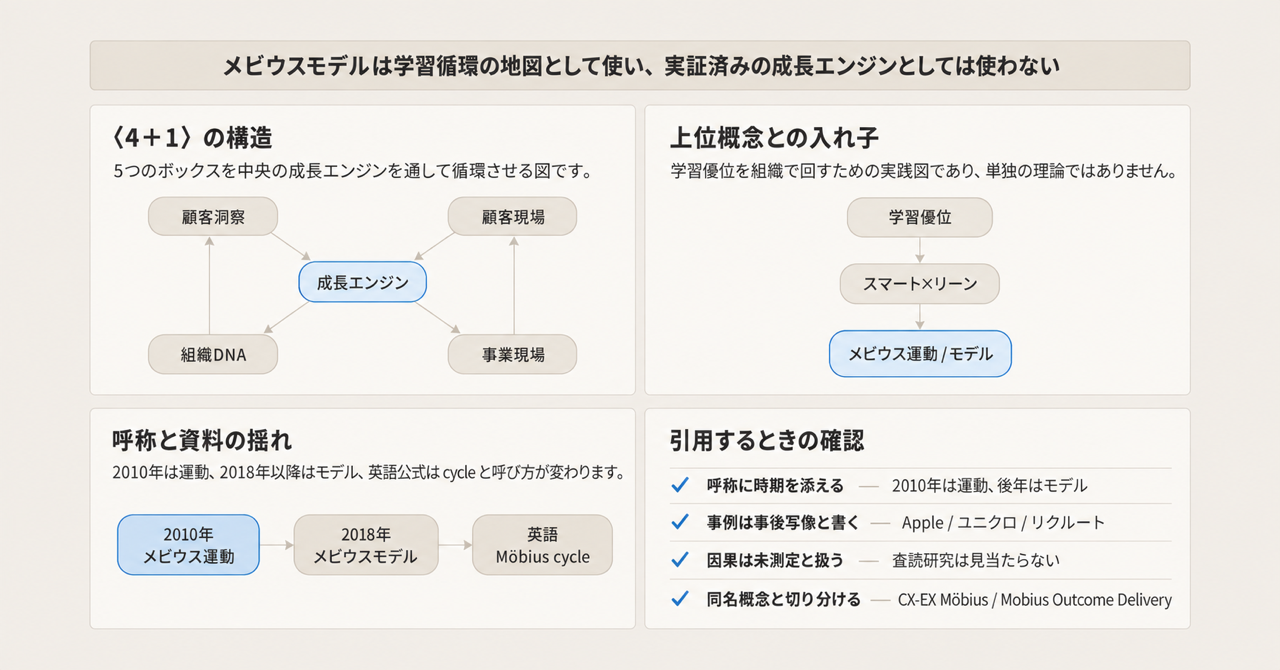
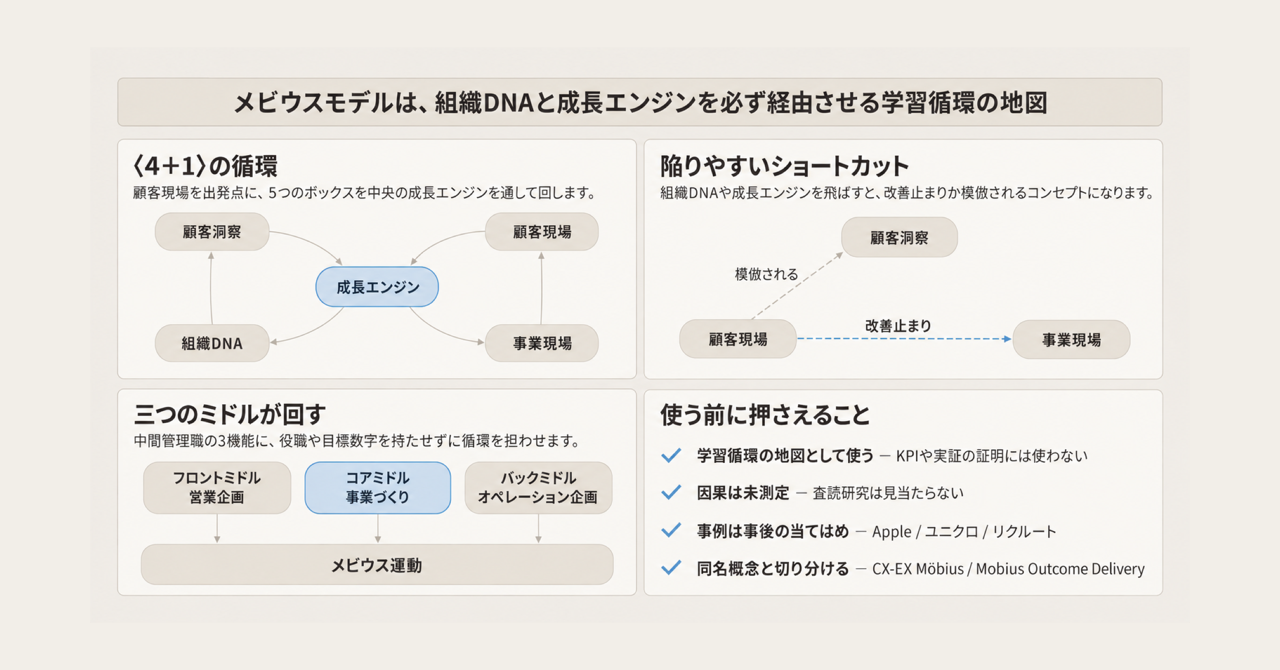
docs: update Zenn draft nawa-takashi-mobius-model_20260917

diff --git a/articles/nawa-takashi-mobius-model_20260917.md b/articles/nawa-takashi-mobius-model_20260917.md
@@ -1,14 +1,14 @@
 ---
-title: "名和高司のメビウスモデルとは何か、学習優位の循環図を一次資料で読み解く"
+title: "名和高司のメビウスモデルとは何か、学習優位で持続的にイノベーションを起こす組織の循環図"
 emoji: "♾"
 type: "tech"
 topics: ["マネジメント", "組織開発", "イノベーション", "経営戦略"]
 published: false
 ---
 
-「顧客の現場で学んだことを組織の DNA に照らし、新しい価値を定義して、また現場に返す」。名和高司氏が提唱するメビウスモデルは、この循環を 1 枚の図にした組織学習のフレームワークです。この記事では、書籍と本人の講演資料をもとに、図の構成要素、循環の経路、上位概念との関係を整理します。そのうえで、呼称の揺れ、事例の扱い、同名の別概念との切り分けなど、引用や助言で使うときの注意点をまとめます。
+「顧客の現場で学んだことを組織の DNA に照らし、新しい価値を定義して、また現場に返す」。名和高司氏が提唱するメビウスモデルは、この循環を 1 枚の図にした組織学習のフレームワークです。この記事では、書籍と本人の講演資料をもとに、図の構成要素、循環の経路、循環を組織に埋め込むための仕組み、上位概念との関係を整理します。そのうえで、どこまでが検証された話で、どこからが未検証の主張かをまとめます。
 
-対象読者は、経営企画・事業開発・技術顧問として、この図を記事や社内資料で正確に使いたい人です。読み終えると、5 つの構成要素と循環の順序を一次資料に基づいて説明でき、どこまでを「実証済み」として語ってよいかを判断できるようになります。なお、書籍本文の逐語は公開されている目次と本人の講演・取材記事で代替している箇所があります。
+対象読者は、経営企画・事業開発・組織開発として、この図の考え方を自組織に当てはめてみたい人です。読み終えると、5 つの構成要素と循環の順序、日本企業が陥りやすいショートカット、循環を支える中間管理職の 3 機能を説明でき、どこまでを「実証済み」として扱ってよいかを判断できるようになります。なお、書籍本文の逐語は公開されている目次と本人の講演・取材記事で代替している箇所があります。
 
 ![記事の全体像](/images/nawa-takashi-mobius-model_20260917/overview.png)
 *この記事の全体像。以下、順に解説します。*
@@ -17,13 +17,25 @@ published: false
 
 メビウスモデルは、3×3 のマトリクス上にある 5 つのホットスポットを、中央の成長エンジンを通して循環させる組織学習の図です。横軸は着想・構築・提供というバリューチェーン（時間）、縦軸は顧客・商品サービス・企業というエコシステム（空間）を表します。
 
-提唱者の名和高司氏は、一橋大学ビジネススクール（一橋 ICS）の客員教授、京都先端科学大学の教授を務め、ファーストリテイリングやデンソー、味の素などの社外取締役を歴任した経営学者です。2010 年の書籍『学習優位の経営』（ダイヤモンド社）では、この循環を「組織のメビウス運動」という章題で説明しています。後年の講演スライドでは「メビウスモデル」と呼ばれます。
+提唱者の名和高司氏は、一橋大学ビジネススクール（一橋 ICS）の客員教授、京都先端科学大学の教授を務め、ファーストリテイリングやデンソー、味の素などの社外取締役を歴任した経営学者です。2010 年の書籍『学習優位の経営』（ダイヤモンド社）では、この循環を「組織のメビウス運動」という章題で説明しています。2018 年の『企業変革の教科書』（東洋経済新報社）以降の資料では「メビウスモデル」と呼ばれます。この記事では両方を同じ図を指す言葉として扱います。
+
+### 前提となるイノベーションの捉え方
+
+名和氏は 2022 年 12 月の DX フォーラム基調講演で、シュンペーターの教えをもとにイノベーションの本質を次のように整理しています。
+
+- イノベーションは外ではなく、内側から生まれる
+- 0 から 1 を生む「発明」ではなく、既存のものを「異結合」して創出する
+- 本質は社会実装しながらスケール化させることにある。「技術革新」ではなく「市場創造」である
+- 今のビジネスに埋もれている資産を「創造的な破壊」で新しいものに変える
+- Blue Ocean はすぐ Red Ocean になるので、その間の「Purple Ocean」にずらす
+
+メビウスモデルは、この意味でのイノベーションを持続的に生み出す組織の動き方として提示されています。図の中央に「スケールしうる事業モデルの作り込み」が置かれているのは、社会実装とスケール化を本質と見るこの前提の表れです。
 
 ### 〈4＋1〉のボックス
 
-図は四隅の 4 つのボックスと中央の 1 つ、あわせて〈4＋1〉で構成されます。ボックス名は、2023 年 4 月 12 日の消費者庁「消費者志向経営に関する連絡会」で名和氏本人が使ったスライドの原文に合わせています。
+図は四隅の 4 つのボックスと中央の 1 つ、あわせて〈4＋1〉で構成されます。ボックス名は、2023 年 4 月の消費者庁「消費者志向経営に関する連絡会」で名和氏本人が使ったスライドに合わせています。
 
-| 位置 | ボックス | スライド原文の中身 | 時間軸 | 空間軸 |
+| 位置 | ボックス | スライドでの中身 | 時間軸 | 空間軸 |
 |---|---|---|---|---|
 | 左上 | 顧客洞察 | 新たな顧客価値の発見・定義 | 着想 Define | 顧客 |
 | 右上 | 顧客現場 | 顧客への価値のデリバリー / フィードバック | 提供 Deliver | 顧客 |
@@ -31,13 +43,11 @@ published: false
 | 左下 | 組織DNA | 自社のDNA・アセットを定義・読み替え | 着想 Define | 企業 |
 | 右下 | 事業現場 | デリバリーモデルの再設計 | 提供 Deliver | 企業 |
 
-2010 年の ITmedia エグゼクティブの取材記事では、右上のボックスを「顧客接点」と表記しています。同じ位置を指す表記の揺れです。
-
-中央の成長エンジンは、ITmedia の記事では「大きく規模を取りうるビジネスモデルの作り込み作業」と説明されています。顧客の声をそのまま製品にするのではなく、規模を取れる事業モデルに作り込む工程を、循環の中心に置いている点がこの図の特徴です。
+中央の成長エンジンは、顧客の声をそのまま製品にするのではなく、規模を取れる事業モデルに作り込む工程です。この工程を循環の中心に置いている点がこの図の特徴です。
 
 ### 循環の経路
 
-図の名前は、ボックスをつなぐ線が「メビウスの輪」や無限大記号に見えることに由来します。右上の顧客現場から中央を通って左下の組織 DNA へ降り、左上の顧客洞察へ上がり、再び中央を通って右下の事業現場へ向かう線です。
+図の名前は、ボックスをつなぐ線が「メビウスの輪」や無限大記号に見えることに由来します。出発点は右上の顧客現場です。そこから中央を通って左下の組織 DNA へ降り、左上の顧客洞察へ上がり、再び中央を通って右下の事業現場へ向かい、顧客現場へ戻ります。
 
 ```mermaid
 flowchart TD
@@ -63,15 +73,35 @@ flowchart TD
 4. 顧客へ価値をいかに廉価にデリバーするか(リーン)を検討
 5. デリバリーを通じて顧客の反応を観察
 
-上の Mermaid 図は、スライドのボックス配置に沿って、中央の成長エンジンをハブにした ∞ の経路で描いています。
+講演では、この経路の意味を次のように説明しています。顧客現場では、顧客だけでなく未顧客のフィードバックも拾います。それを組織 DNA、つまり「組織のコアコンピタンスが潜んでいるゾーン」に落とし込み、組織の強みと突き合わせながら未来を読み解きます。「顧客の未来」と「自社の潜在的な能力」が掛け合わされることで、他社に模倣されにくい新しいコンセプトが生まれる、という筋道です。
+
+### 名和氏が指摘するショートカット
+
+循環の経路の意味を説明するなかで、名和氏は日本企業の多くがこの循環を省略してしまうと述べています。講演で挙げられた省略の仕方は 3 つです。
+
+| ショートカット | 何が起きるか |
+|---|---|
+| 顧客現場 → すぐ事業現場 | 単なる「改善」に過ぎない |
+| 顧客現場 → すぐ顧客洞察 | 組織 DNA を通らないため、すぐ模倣されるコンセプトしか生まれない |
+| 顧客洞察 → すぐ事業現場 | 成長エンジンを通らないため、すでに持っている資産の範囲でしか市場を作れない |
+
+循環を ∞ の形にしているのは、この 3 つのショートカットを避け、組織 DNA と成長エンジンを必ず経由させるためです。
 
 ### スマートとリーン
 
-吹き出しの 2 と 4 に出てくる「スマート」と「リーン」は、この図の成長方向を示す一対の言葉です。ITmedia の 2010 年の記事では、スマートを顧客から見た価値の高さ、リーンを提供手段のコストの低さと説明しています。価値の高さとコストの低さという二律背反を両立させる方向として、図の中に組み込まれています。
+吹き出しの 2 と 4 に出てくる「スマート」と「リーン」は、この図の成長方向を示す一対の言葉です。2010 年の ITmedia エグゼクティブの取材記事では、スマートを顧客から見た価値の高さ、リーンを提供手段のコストの低さと説明しています。価値の高さとコストの低さという二律背反を両立させる方向として、図の中に組み込まれています。
 
 ### 三つのミドル
 
-消費者庁スライドの右端には、フロントミドル、コアミドル、バックミドルという 3 つのラベルがあります。同じスライドの p.19 には「ミドルを核としたメビウス運動」という記述があります。『学習優位の経営』第 6 章の見出しも「ミドル機能によるつなぎ」「ユニクロを駆動するミドル機能」「ミドル機能の埋め込み」と、ミドル層が循環をつなぐ役割を担う構成になっています。
+循環を組織の中で回す主体として、名和氏は中間管理職に 3 つの機能を割り当てています。消費者庁スライドの右端にはフロントミドル、コアミドル、バックミドルというラベルがあり、講演では次のように定義しています。
+
+| 機能 | 担い手 |
+|---|---|
+| フロントミドル | 営業企画の人 |
+| バックミドル | オペレーションの企画ができる人 |
+| コアミドル | 事業をつくれる人 |
+
+この 3 つの「ミドル」には、具体的な役職や目標数字をあえて持たせません。この 3 人を起用してメビウスの動きを組織に埋め込むことで、イノベーション活動が継続的に行われるようになる、という考え方です。『学習優位の経営』第 6 章の見出しも「ミドル機能によるつなぎ」「ユニクロを駆動するミドル機能」「ミドル機能の埋め込み」と、ミドル層が循環をつなぐ役割を担う構成になっています。
 
 ### 学習優位との関係
 
@@ -86,55 +116,82 @@ flowchart TB
     SL --> MB
 ```
 
-『学習優位の経営』の目次も、第 4 章が〈4＋1〉、第 5 章が運動、第 6 章がミドル、第 7 章が実践例と、この入れ子に沿って並んでいます。第 4 章には「ＤＮＡの二つの螺旋構造」「ＤＮＡの読み解きと読み替え」「四つの未成功パターン」という見出しがあり、組織 DNA の読み替えを循環の起点に置いています。
+『学習優位の経営』の目次も、第 4 章が〈4＋1〉、第 5 章が運動、第 6 章がミドル、第 7 章が実践例と、この入れ子に沿って並んでいます。第 4 章には「ＤＮＡの二つの螺旋構造」「ＤＮＡの読み解きと読み替え」という見出しがあり、顧客現場で得た声を組織 DNA の読み替えにつなげる構成になっています。
 
-### 2018 年『企業変革の教科書』での位置づけ
+## 循環を組織に埋め込む仕組み
 
-2018 年の『企業変革の教科書』（東洋経済新報社）では、第 4 章がメビウスモデルの章です。同書では、V 字回復、自己破壊、組合せと並ぶ企業変革 4 モデルの 1 つとして位置づけられています。章題は出版社の目次で「メビウス（永久反転）モデル」、電子版の目次で「メビウス（永久反転）運動モデル」と表記されています。
+2022 年の講演では、メビウス運動を実現するための組織の条件と、運動を回す仕掛けが併せて示されています。
+
+### DACO: 自律しつつ関係性でつながる組織
+
+名和氏は組織を 2 つの軸で捉えます。横軸は「スケール・スコープの経済」、縦軸は「スキル・スピードの経済」です。デジタル時代に最も適しているのは両方の度合いが高い DACO（Decentralized Autonomous Connected Organization、創発型組織）だとしています。
+
+Web3 の文脈で語られる DAO（自律分散型組織）は、一つ一つの事業やプロジェクトを自律して推進できる一方で、大きくスケールする事業や市場を作れません。DACO はそこに Connected（関係性）を加えたもので、名和氏は「Connected があってこそ、市場を生み出せる」と強調しています。
+
+### Innovation @ Edges: ゆらぎ・つなぎ・ずらし
+
+「Innovation @ Edges」は、イノベーションは現場からしか起こらない、という考え方です。市場に埋め込まれた現場の一つ一つがセンサーのように新しい動きを察知することを、名和氏は「ゆらぎ」と呼びます。現場の数が多いほどゆらぎの機会は増えますが、それだけでは小さなゆらぎしか起こせません。
+
+```mermaid
+flowchart LR
+    Edge["現場<br/>ゆらぎを作る"]
+    HQ["本社<br/>つなぎ・ずらし"]
+    Scale["生態系の中で<br/>スケール"]
+    Edge --> HQ
+    HQ --> Scale
+```
+
+現場がゆらぎを作り、本社がそれを「つなぎ」「ずらし」ていくことで地殻変動が起き、初めてスケールします。名和氏はこれを生物の進化のプロセスになぞらえ、「共進化」の重要性を説いています。
+
+人の面では、ゆらぎを起こすには「よそ者」「わか者」「ばか者」と言われるような、常識的な見方にとらわれない人が現場に必要です。一方で、ゆらぎをつなぎ、ずらすにはインクルージョン（包括）が欠かせません。ダイバーシティのための頭数をそろえるよりも、多様な人が活躍できるインクルーシブな環境を作る力が求められる、という指摘です。
+
+### クリエーティブ・ルーティン: たくみをしくみに落とす
+
+ゆらぎ・つなぎ・ずらしを実践する方法として、名和氏は「クリエーティブ・ルーティン」を提案しています。「n=1」の新しいものを作るには人の「たくみ」の力が必要ですが、それだけではスケールしません。たくみを「しくみ」、つまりルーティンに落とす作業が必要です。
+
+たくみをしくみに落とすと、たくみが生まれるたびにしくみも進化します。この「進化するルーティン」が回ることで、常に新しいことが生まれ続けてスケールします。名和氏はこれをイノベーションの本質だと位置づけています。講演では、最近の日本企業はたくみに走りすぎてしくみに落とすことをおろそかにしている、とも指摘しています。
+
+### デュアル OS と時間軸の両利き
+
+進化するルーティンを生み出す組織形態として、名和氏は「両利きの経営」ではなくジョン・P・コッター氏の「デュアル OS」を推奨しています。デュアル OS では、新しい事業を始めるときにエース人材を事業をインキュベーションする組織に送り込み、成し遂げた後は新しいアイデアとともに元の組織に戻します。
+
+この往復には 2 つの効果があります。エースが抜けた元の組織は、不在でも回るように整流化され、無駄のない構造に変わります。新しい組織で生まれた事業を戻すことで、既存のビジネスが触発されて事業全体が進化します。新規事業を触媒として本業自体を進化させることが、イノベーションの本質的な価値だとしています。
+
+時間軸にも両利きがあります。大事なのは 30 年くらい先を見る長期と、日々変わる景気や国際情勢に対応する短期です。日本企業が経営計画で重視する 3 年程度の中期については、予測が難しいため「あまり意味がない」と述べています。
+
+### マネジメントそのものをイノベーションする
+
+講演の締めくくりで名和氏は、イノベーションをどうマネージするかよりも、マネジメントそのものをイノベーションすることに重きを置いてほしいと述べています。その進め方は 3 つのプロセスです。
+
+1. **ドリームセッション**: 創業の思いを見つめ直し、その企業ならではの「ありたい姿」を北極星として置く。「本当にワクワクできるか」「われわれならではのものか」「従業員、顧客、社会が『この企業ならできる』と思えるものか」の 3 つが合致していれば、いくらでも思いを高く飛ばしてよい
+2. **内省セッション**: 今と未来のギャップを見つめ、なぜそこにたどり着けていないのかを考える。内省から始めると進まないため、必ずドリームセッションの後に置く。自社の「クセ」や「やってるつもり病」と向き合う
+3. **変革**: Innovation @ Edges、メビウス運動、クリエーティブ・ルーティンの埋め込みによって、ありたい姿を目指して現状を変える
+
+変革のレバーについては、コッター氏の議論を引いて、「このままではだめだ」という危機感ではなく、パーパスや志を使うべきだとしています。危機感は生存本能を働かせて身を守らせるため、イノベーションを生み出せなくなります。もっと素敵な自分たちになりたいという前向きな気持ち（繁栄本能）に火がつけば、やらされ感のない変革が始まる、という主張です。
 
 ## 注意点
 
-一次資料に当たると、呼称、事例、実証の扱いで見落としやすい点がいくつかあります。引用や助言に使うときは次の点を押さえてください。
-
-### 2010 年の正本呼称は「メビウス運動」
-
-『学習優位の経営』の目次に「メビウスモデル」という語はありません。名和氏本人の 2010 年の発言は「この一連の思考と実践という思考錯誤の流れをわたしはメビウス運動と呼んでいます」です。書籍で「モデル」の呼称を確認できるのは 2018 年『企業変革の教科書』の第 4 章題で、2023 年の消費者庁スライドの図題は「次世代イノベーションを駆動するメビウスモデル」です。ただし同じスライドの p.19 は「ミドルを核としたメビウス運動」と書いており、本人資料の中でも両方の呼称が使われています。一橋 ICS の英語プロフィールは “Möbius” cycle であり、model ではありません。
-
-引用するときは「2010 年はメビウス運動、後年のスライドではメビウスモデル」と時期を添えると、どの資料を指しているかが明確になります。
-
-### 循環の経路の書き方は資料で 3 通りある
-
-同じ図を指していても、一次資料の中で経路の書き方は 3 通りあり、番号の起点と中央を通る回数が一致しません。
-
-| 系統 | 出典 | 順序 |
-|---|---|---|
-| 吹き出し番号 ①〜⑤ | 消費者庁スライド p.14 | DNA に照らす → 価値(スマート)を定義 → 事業モデルを設計 → 廉価にデリバー(リーン) → 反応を観察 |
-| 視覚の ∞ | 同スライドの配置、ITmedia の図の説明 | 顧客現場 → 成長エンジン → 組織DNA → 顧客洞察 → 成長エンジン → 事業現場 → 顧客現場 |
-| 2010 年の口述 | ITmedia 2010-09-28 | 顧客接点から中央を通過して組織DNAへ向かい、顧客洞察へ上昇して再び中央を通って事業現場へ |
-
-吹き出し番号は組織 DNA から始まり、成長エンジンを 1 回だけ通ります。視覚の ∞ と 2010 年の口述は顧客現場から始まり、成長エンジンを 2 回通ります。循環の順序を引用するときは、どの系統かを添えてください。
-
-### 三つのミドルの役割定義は公開資料にない
-
-フロントミドル、コアミドル、バックミドルの各層が何を担うかを定義した逐語は、『学習優位の経営』の公開目次にはありません。2010 年の ITmedia の取材記事にも三つのミドルは登場しません。層の名前と「つなぎ役」という位置づけまでが、一次資料で確認できる範囲です。各層の役割を説明する Web 記事は講義の編集記事に基づくものが多いため、書籍の一次表記として引用しないでください。
-
-### 4 つの未成功パターンの固有名は書籍の目次にない
-
-『学習優位の経営』第 4 章の見出しは「四つの未成功パターン」までで、各パターンの固有名は公開目次に含まれていません。Web 上で見かける「市場開拓型 / マーケティング型 / 資産深耕型 / 現場深耕型」という名称は、CULTIBASE の 2024 年の編集記事が使っている表記です。書籍本文の表記と一致するかは未確認のため、これらを書籍の一次表記として引用しないでください。
-
-### 成功事例は事後の当てはめ
-
-書籍と講演で使われる Apple、ユニクロ、リクルートなどの事例は、循環図を後から当てはめた説明です。iPod の説明では、名和氏本人が「初代iPodが生まれた時点を当てはめてみると」と前置きしています。
-
-また、事例企業のその後は、循環が持続を保証する証拠にはなりません。第 1 章に置かれた「ノキアのインド攻略」のあと、ノキアの携帯電話事業は 2013 年 9 月にマイクロソフトへの売却が発表され、2014 年 4 月に完了しました。第 7 章「デジカメにみるメビウス運動」で扱われるパナソニックは、2012 年 12 月に三洋のデジカメ事業の譲渡を発表しています。事例を出すときは「事後写像」であることを明記し、事例の賞味期限を意識してください。
+ここまでは名和氏の主張をそのまま整理しました。自組織に当てはめる前に、どこまでが検証された話かを押さえてください。
 
 ### 査読による再現研究は見当たらない
 
 2026 年 9 月時点で、CiNii、J-STAGE、Google Scholar を検索した範囲では、メビウス運動や学習優位を検証した査読論文は確認できませんでした。書籍より 7 年先行する『Diamond ハーバード・ビジネス・レビュー』2003 年 3 月号「学習優位の戦略」は雑誌論文であり、査読誌の実証研究ではありません。「この循環を実装すると持続的イノベーションが起きる」という因果は、未測定として扱うのが正確です。
 
+### 成功事例は事後の当てはめ
+
+書籍と講演で使われる Apple、ユニクロ、リクルートなどの事例は、循環図を後から当てはめた説明です。iPod の説明では、名和氏本人が「初代iPodが生まれた時点を当てはめてみると」と前置きしています。事例企業のその後も循環の持続を保証しません。『学習優位の経営』第 1 章の「ノキアのインド攻略」のあと、ノキアの携帯電話事業は 2013 年 9 月にマイクロソフトへの売却が発表され、2014 年 4 月に完了しました（日本経済新聞 2013-09-03、CNET Japan 2014-04-26）。第 7 章で扱われるパナソニックも、2012 年 12 月に三洋のデジカメ事業の譲渡を発表しています（日本経済新聞 2012-12-21）。
+
 ### 失敗を補助仮説で回収できる
 
-うまくいかない場合の説明は、組織 DNA の読み解き不足、成長エンジンの飛ばし、脱学習の不足、ミドルのつなぎ切れ、のいずれかで閉じることができます。「循環を実装したがイノベーションが起きない」という外部からの反証条件を、公開資料から置くことはできません。ブクログに投稿された『学習優位の経営』の読者レビューには「PDCA の難語化」「フレームワークが腹落ちしない」という評もあります。この図を KPI や監査手順のように「満たしたか」を判定する道具として使うのは適していません。
+うまくいかない場合の説明は、組織 DNA の読み解き不足、成長エンジンの飛ばし、脱学習の不足、ミドルのつなぎ切れ、のいずれかで閉じることができます。「循環を実装したがイノベーションが起きない」という外部からの反証条件を、公開資料から置くことはできません。この図を KPI や監査手順のように「満たしたか」を判定する道具として使うのは適していません。
+
+### 書籍本文で未確認の部分がある
+
+この記事の記述は、公開されている目次、本人の講演スライド、講演採録、取材記事に基づいています。次の点は書籍本文の逐語を確認できていません。
+
+- 第 4 章「四つの未成功パターン」の各パターンの固有名。Web 上で見かける「市場開拓型 / マーケティング型 / 資産深耕型 / 現場深耕型」は講義の編集記事の表記です
+- 第 5 章での循環の幾何の説明
+- 三つのミドルの書籍本文での定義。この記事の定義は 2022 年講演の採録に基づきます
 
 ### 同名の別概念と混同しやすい
 
@@ -142,24 +199,6 @@ flowchart TB
 
 - **CX-EX の Möbius Strip**: ServiceNow が 2021 年に Forbes BrandVoice で提唱した、顧客体験（CX）と従業員体験（EX）の一体運用の比喩
 - **Mobius Outcome Delivery**: Discover / Decide / Deliver の 3 ループでプロダクト開発を進めるナビゲータ。日本語のアジャイル圏で「メビウスループ」として紹介される
-- 社名の Möbius / メビウス、JT の銘柄 Mevius
-
-記事や資料の冒頭で、どのメビウスを指すかを明示してください。
-
-### 取締役在任はモデルの実証ではない
-
-名和氏はファーストリテイリング（2012〜2022 年）、デンソー（2013 または 2014 年〜2018 または 2019 年）、味の素（2015〜2023 年）、SOMPO ホールディングス（2020〜2026 年 6 月 22 日）などの社外取締役を務めました。これらの企業での実務がモデルの裏付けとして語られることがありますが、次の事実も確認できます。
-
-- SOMPO ホールディングス在任中の 2023 年 12 月 26 日、金融庁は損保ジャパンを含む大手 4 社へ保険料調整行為で業務改善命令を出しました。2024 年 1 月 25 日には、ビッグモーター対応で損保ジャパンと SOMPO ホールディングスの双方へ業務改善命令を出しています
-- デンソーは燃料ポンプの品質問題を「過去最大の品質問題」と社史に記し、2019 年度の大幅減益の主因を 2,000 億円超の品質引当としています。この引当は名和氏の退任後の計上です
-
-これらは名和氏個人に対する処分ではありません。ここで示したいのは、学習の循環が統治・品質・顧客保護を自動的に保証するわけではない、という限界です。
-
-### 大学プロフィールは陳腐化している
-
-在任状況や年次を引用するときは、大学プロフィールを正本にしないでください。京都先端科学大学の日英プロフィールは 2026 年 9 月時点でもファーストリテイリングを現任と書いていますが、同社の 2023 年の招集通知は「2022年11月24日開催の2022年8月期定時株主総会終結の時をもって、取締役名和高司氏は退任いたしました。」と記しています。デンソーの就任年は一橋 ICS が 2013 年、SOMPO の法定開示が 2014 年 6 月、終了年は一橋 ICS が 2018 年、京都先端科学大学と消費者庁資料が 2019 年と割れています。任期は会社の IR 資料と突合してください。
-
-書誌情報も揃っていません。『学習優位の経営』の頁数は NDL と CiNii が 270 頁、ダイヤモンド社の現行ページが 272 頁で、刊行時の定価は NDL が 2,000 円、現行公式は本体 2,400 円＋税です。
 
 ## 隣接概念とどう違うか
 
@@ -180,7 +219,7 @@ flowchart TB
 
 ### クリステンセンのジレンマとの関係
 
-クリステンセンの『イノベーターのジレンマ』は、優良企業が既存顧客から学ぶほど破壊的イノベーションへの対応が遅れる、という対抗命題です。名和氏自身が第 1 章でこのジレンマに触れています。顧客現場での学習を循環に組み込む設計は、持続的イノベーションへの偏重と重なる可能性があります。循環の起点を組織 DNA の「読み替え」に置いているのは、この偏重への答えとして読めますが、それが機能するかは事例ごとに確認が必要です。
+クリステンセンの『イノベーターのジレンマ』は、優良企業が既存顧客から学ぶほど破壊的イノベーションへの対応が遅れる、という対抗命題です。名和氏自身が第 1 章でこのジレンマに触れています。顧客現場での学習を循環に組み込む設計は、持続的イノベーションへの偏重と重なる可能性があります。顧客の声を必ず組織 DNA の「読み替え」に通す設計と、講演で「未顧客」のフィードバックを強調している点は、この偏重への答えとして読めます。それが機能するかは事例ごとに確認が必要です。
 
 ## どこまで信じて、どう使うか
 
@@ -189,14 +228,13 @@ flowchart TB
 - 『学習優位の経営』の目次が、第 4 章〈4＋1〉、第 5 章運動、第 6 章ミドル、第 7 章実践例と一連で並ぶ
 - 2023 年の消費者庁スライドで、名和氏本人が 5 つのボックスと①〜⑤の吹き出しを図示している
 - 2010 年の ITmedia の記事が、本人発言として循環の経路とスマート／リーンの定義を残している
+- 2022 年の講演採録が、三つのミドルの定義、ショートカットの弊害、DACO やクリエーティブ・ルーティンとの接続を本人の言葉で残している
 - 一橋 ICS の英語プロフィールが、*Familiarity Advantage*、Smart-Lean、Möbius cycle を公式に対応づけている
-- 2018 年『企業変革の教科書』が、変革 4 モデルの 1 つとして章を立てている
 
 ### 一次資料が支持していないこと
 
 - 査読・再現研究が主要データベースで見当たらない
 - 成功事例は事後の当てはめであり、ノキアやデジカメ事業は出版後に縮小・売却された
-- 循環の順序と成長エンジンを通る回数（1 回か 2 回か）が資料で揺れる
 - 失敗を DNA・飛ばし・脱学習で回収でき、外部からの反証条件が弱い
 
 図としての一貫性は、2010 年の書籍と 2023 年のスライドの間で高く保たれています。一方で「この循環を実装すると持続的イノベーションが起きる」という因果は未測定です。
@@ -205,23 +243,22 @@ flowchart TB
 
 メビウスモデルは、**学習循環の地図**として使うのが適切です。「実証済みの成長エンジン」や、KPI・ガバナンスの証明としては使わないでください。
 
-具体的には、次の 4 点を守ると引用の正確さを保てます。
+自組織で使うときは、次の順で点検する用途に向いています。
 
-1. 呼称に時期を添える。「2010 年はメビウス運動、後年のスライドではメビウスモデル。図は〈4＋1〉」
-2. 5 つのホットスポット名は 2023 年の消費者庁スライドを優先し、2010 年の「顧客接点」表記の揺れを注記する
-3. Apple / ユニクロ / リクルートの事例を出すときは「事後写像」と書く
-4. 取締役の任期や数値は、会社の IR 資料と突合する。大学プロフィールを現任の正本にしない
+1. 5 つのボックスに自社の活動を当てはめ、どのボックスが空いているかを見る
+2. 3 つのショートカットのどれを踏んでいるかを見る。顧客の声がそのまま改善に流れていないか、コンセプトが組織 DNA を通っているか、事業モデルの作り込みを飛ばしていないか
+3. フロント・バック・コアのミドル 3 機能を誰が担っているかを見る。役職ではなく、営業企画・オペレーション企画・事業づくりの機能で見る
+4. たくみをしくみに落とすルーティンがあるかを見る
 
-自組織で使うときは、まず 5 つのボックスに自社の活動を当てはめ、どのボックスが空いているか、中央の成長エンジンを飛ばしていないかを点検する用途に向いています。循環が回っているかどうかの判定基準は図の中にないので、顧客フィードバックの件数や事業モデルの改訂回数など、自組織で観測できる指標を別に決める必要があります。
+循環が回っているかどうかの判定基準は図の中にありません。顧客フィードバックの件数や事業モデルの改訂回数など、自組織で観測できる指標を別に決める必要があります。
 
 ## まとめ
 
 - メビウスモデルは、3×3 のマトリクス上の 5 つのホットスポット（顧客洞察・顧客現場・成長エンジン・組織 DNA・事業現場）を、中央の成長エンジンを通して循環させる組織学習の図です
-- 学習優位という上位概念の実践図であり、スマート×リーンを成長方向、メビウスを組織運動とする入れ子になっています
-- 2010 年の書籍では「メビウス運動」、2018 年以降の資料では「メビウスモデル」と呼ばれ、英語公式は Möbius cycle です
-- 成功事例は事後の当てはめで、査読による再現研究は見当たりません。因果は未測定として扱ってください
-- CX-EX の Möbius Strip や Mobius Outcome Delivery とは別物です。冒頭でどのメビウスかを明示してください
-- 実務では「学習循環の地図」として使い、KPI や統治の証明には使わないのが安全です
+- 出発点は顧客現場です。組織 DNA と成長エンジンを必ず経由させることで、模倣されにくいコンセプトとスケールする事業モデルを作ります。日本企業はこの 2 つを飛ばすショートカットに陥りやすいと指摘されています
+- 循環を回す主体は中間管理職で、営業企画（フロント）・オペレーション企画（バック）・事業づくり（コア）の 3 機能に分けます
+- 循環を組織に埋め込む仕組みとして、DACO、ゆらぎ・つなぎ・ずらし、クリエーティブ・ルーティン、デュアル OS、ドリームセッションから始めるマネジメント変革が提示されています
+- 査読による再現研究は見当たらず、成功事例は事後の当てはめです。因果は未測定として扱い、学習循環の地図として使うのが安全です
 
 この記事が少しでも参考になった、あるいは改善点などがあれば、ぜひリアクションやコメント、SNSでのシェアをいただけると励みになります！
 
@@ -229,17 +266,13 @@ flowchart TB
 
 一次資料:
 
-- 名和高司『学習優位の経営――日本企業はなぜ内部から変われるのか』ダイヤモンド社、2010 年 2 月。ISBN 978-4-478-00224-7。[公式ページ](https://www.diamond.co.jp/book/9784478002247.html) / [目次](https://www.diamond.co.jp/_itemcontents/0201_biz/00224-7.html) / [NDL](https://ndlsearch.ndl.go.jp/books/R100000002-I000010712685)
+- 名和高司『学習優位の経営――日本企業はなぜ内部から変われるのか』ダイヤモンド社、2010 年 2 月。ISBN 978-4-478-00224-7。[公式ページ](https://www.diamond.co.jp/book/9784478002247.html) / [目次](https://www.diamond.co.jp/_itemcontents/0201_biz/00224-7.html)
 - 名和高司『企業変革の教科書』東洋経済新報社、2018 年 12 月。ISBN 978-4-492-53405-2。第 4 章「メビウス（永久反転）モデル」
 - 名和高司「学習優位の戦略――ラーニングとアンラーニングの良循環」『Diamond ハーバード・ビジネス・レビュー』28(3), 72-86, 2003 年 3 月
 - [消費者庁「消費者志向経営に関する連絡会」資料、2023-04-12](https://www.caa.go.jp/policies/policy/consumer_partnerships/meeting_materials/assets/consumer_partnerships_cms201_20230412.pdf)
+- [名和高司「次世代イノベーションの本質と実践における要諦」JBpress Innovation Review、2023-06-26](https://jbpress.ismedia.jp/articles/-/75497)（2022-12-02 講演の採録）
 - [大西高弘「Apple が証明した企業 DNA の力」ITmedia エグゼクティブ、2010-09-28](https://mag.executive.itmedia.co.jp/executive/articles/1009/28/news071.html)
 - [Hitotsubashi ICS, “NAWA, Takashi”](https://www.ics.hub.hit-u.ac.jp/nawa-takashi)
-- [京都先端科学大学「名和 高司」](https://www.kuas.ac.jp/faculty-members/faculty/nawa-takashi)
-- [ファーストリテイリング「第 62 回定時株主総会招集ご通知」（2023 年 8 月期）](https://www.fastretailing.com/jp/ir/stockinfo/pdf/shoshu_2023Aug.pdf)
-- [SOMPO ホールディングス「役員の選任、退任に関するお知らせ」、2026-05-20](https://www.sompo-hd.com/-/media/hd/files/news/2026/20260520_3.pdf?la=ja-JP)
-- [金融庁「大手損害保険会社に対する行政処分」、2023-12-26](https://www.fsa.go.jp/news/r5/hoken/20231226/20231226.html)
-- [金融庁「株式会社損害保険ジャパン及び SOMPO ホールディングス株式会社に対する行政処分」、2024-01-25](https://www.fsa.go.jp/news/r5/hoken/20240125/20240125.html)
 - Porter, M. E. *Competitive Strategy*. Free Press, 1980.
 - Porter, M. E. “What is Strategy?” *Harvard Business Review* 74(6), 1996, pp. 61–78.
 - Teece, D. J., Pisano, G., & Shuen, A. “Dynamic Capabilities and Strategic Management.” *Strategic Management Journal* 18(7), 1997, pp. 509–533.
@@ -250,7 +283,6 @@ flowchart TB
 
 - [CULTIBASE「学習優位により、持続的にイノベーションを起こすメビウスモデル」、2024-11-11](https://www.cultibase.jp/articles/mobius-innovation)
 - [翁長潤「次世代型イノベーション組織の作り方」Human Capital Online、2023-02-03](https://project.nikkeibp.co.jp/HumanCapital/atcl/column/00069/012200023/)
-- [名和高司「次世代イノベーションの本質と実践における要諦」JBpress Innovation Review、2023-06-26](https://jbpress.ismedia.jp/articles/-/75497)
 
 同名概念:
 

diff --git a/README.md b/README.md
@@ -11,7 +11,7 @@
 
 | create date | title | topics |
 |-------------|-------|--------|
-| 2026-09-17 | [♾ 名和高司のメビウスモデルとは何か、学習優位の循環図を一次資料で読み解く](articles/nawa-takashi-mobius-model_20260917.md) | マネジメント, 組織開発, イノベーション, 経営戦略 |
+| 2026-09-17 | [♾ 名和高司のメビウスモデルとは何か、学習優位で持続的にイノベーションを起こす組織の循環図](articles/nawa-takashi-mobius-model_20260917.md) | マネジメント, 組織開発, イノベーション, 経営戦略 |
 | 2026-09-17 | [🔗 サービスプロフィットチェーンとは何か、原典の命題と実証・反証を整理する](articles/service-profit-chain_20260917.md) | マネジメント, サービスデザイン, 組織開発, カスタマーサクセス |
 | 2026-09-16 | [🪟 コンテキスト窓を守る MCP プラグイン context-mode の構造とデータ](articles/context-mode_20260916.md) | mcp, claudecode, ai, sqlite, typescript |
 | 2026-09-16 | [🧪 Ericssonの4観点Skillsと知識グラフによるコードレビュー現場評価](articles/ericsson-skills-arxiv-abs-p5_20260916.md) | AIエージェント, AgentSkills, CodeReview, MCP, LLM |
